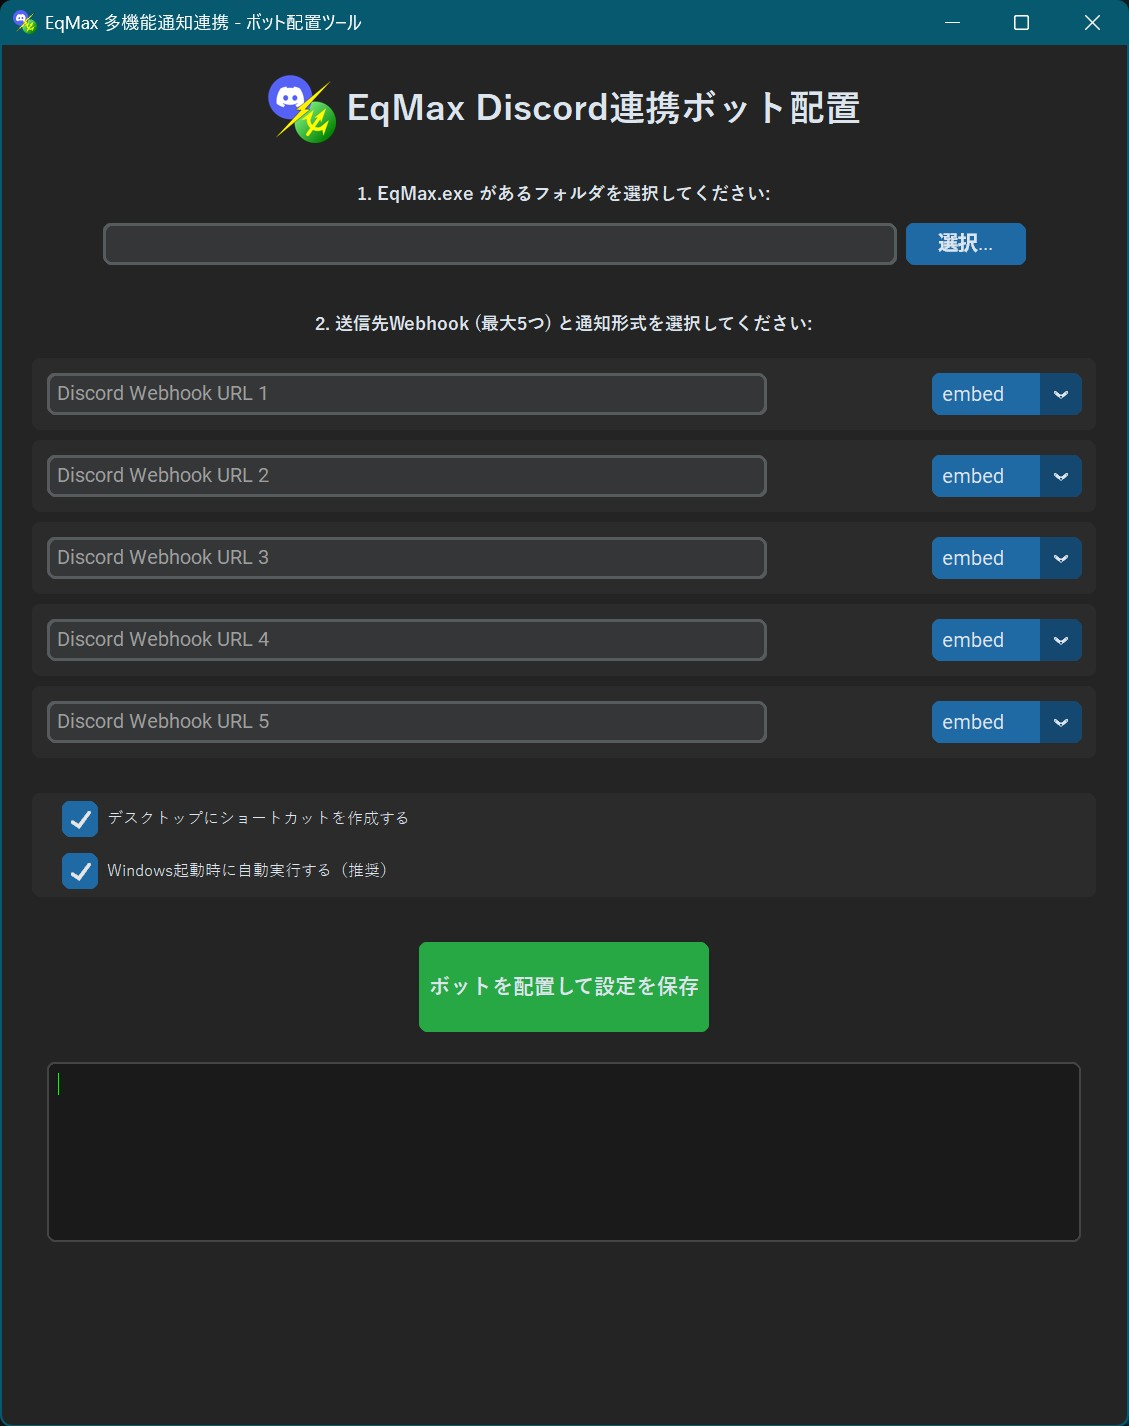
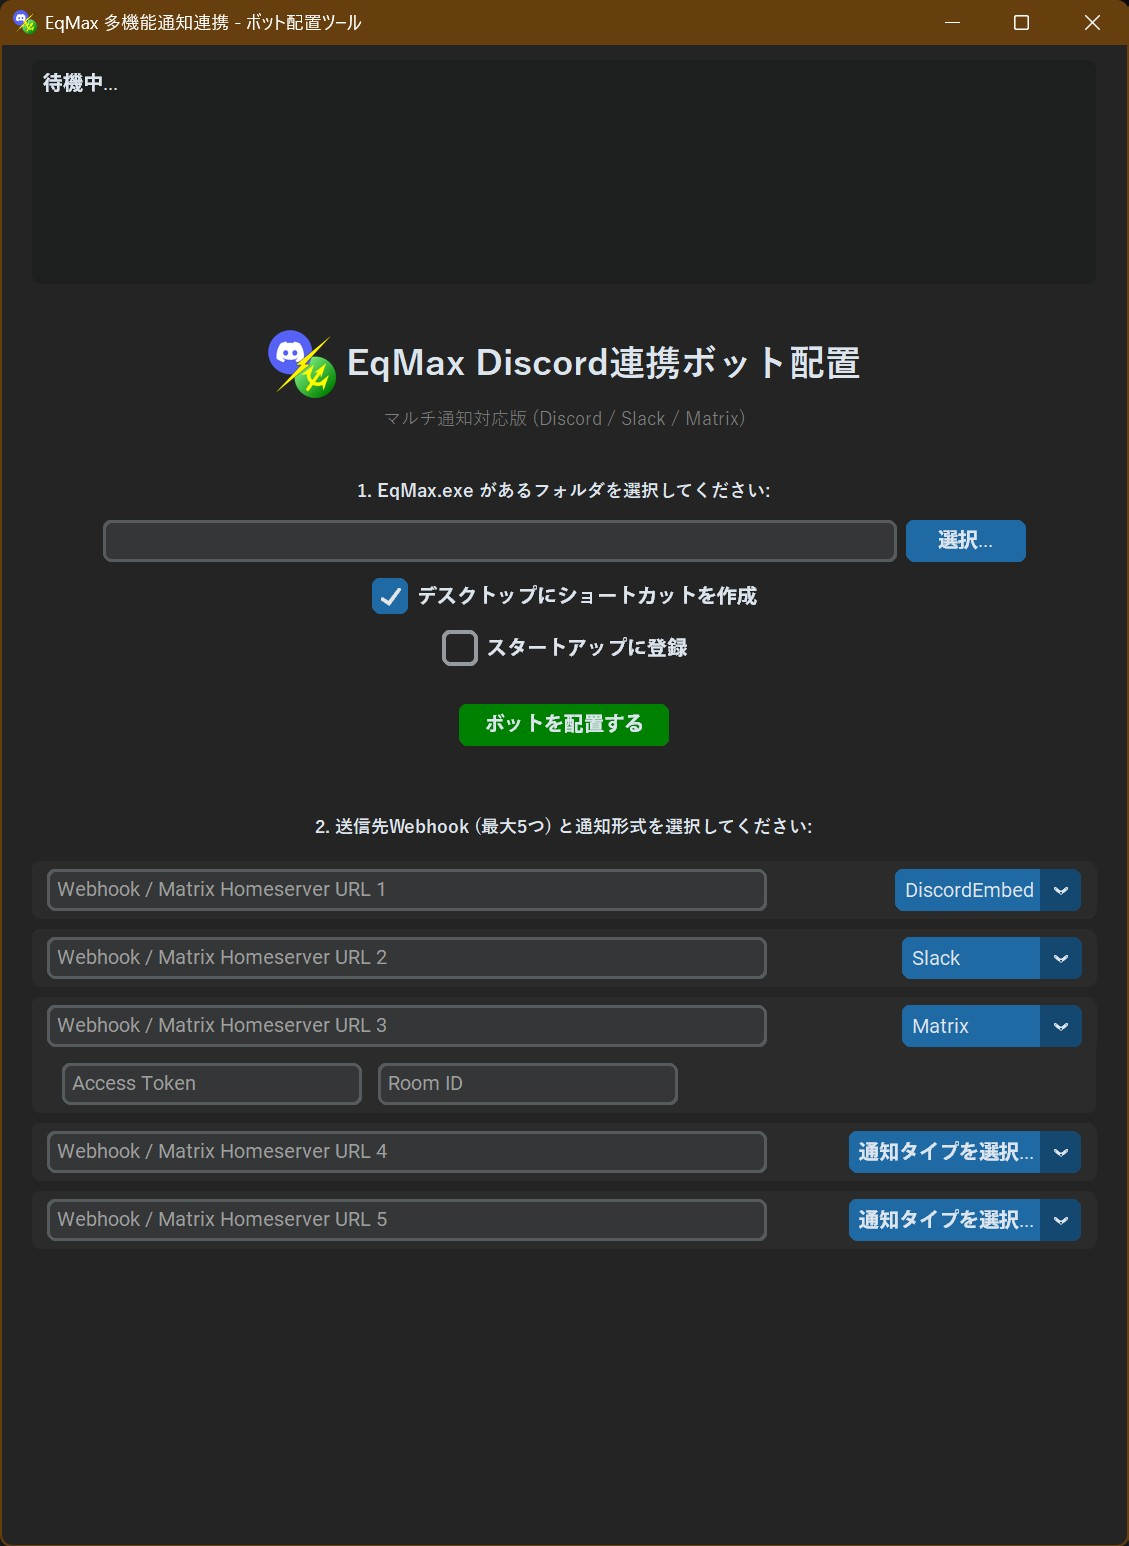
ReadMeUpdate

diff --git a/README.md b/README.md
@@ -1,20 +1,19 @@
-# EqMax-Discord-Bridge v6.0.0 (Emergency Update)
+# EqMax-Discord-Bridge v7.0.0 (Guardian Hub Update)
 
 <p align="center">
-  <img src="Assets/eq-dis.png" width="120" alt="Logo">
+<img src="Assets/eq-dis.png" width="120" alt="Logo">
 </p>
 
 <p align="center">
-  <b>「静かなる守護者（The Silent Guardian）」 — 通信の完全分離と、究極の安定性へ。</b>
+<b>「境界を超えて、全方位へ」 — マルチプラットフォーム通知の夜明け。</b>
 </p>
 
 > [!IMPORTANT]
 > **最新版パッケージ (ZIP) を直接ダウンロード**
 >
 > <p align="center">
->   <br>
->   <a href="https://github.com/MustangTIS/EqMax-Discord-Bridge/releases/download/v6.0.0/EqMax-Discord-Bridge-v6.0.0.zip">
->     <img src="https://img.shields.io/badge/Download-Latest_v6.0.0_.zip-red?style=for-the-badge&logo=github" alt="Download ZIP">
+>   <a href="https://github.com/MustangTIS/EqMax-Discord-Bridge/releases/download/v7.0.0/EqMax-Discord-Bridge-v7.0.0.zip">
+>     <img src="https://img.shields.io/badge/Download-Latest_v7.0.0_.zip-blue?style=for-the-badge&logo=github" alt="Download ZIP">
 >   </a>
 > </p>
 
@@ -22,9 +21,8 @@
 
 <p align="right">Developer: MustangTIS</p>
 
-
 <p align="center">
-  <img src="Assets/MegaQuake2011.jpg" alt="Main Visual">
+<img src="Assets/MegaQuake2011.jpg" alt="Main Visual">
 </p>
 
 特に狙ったわけではないのですが、ふと思いついたように「EqMaxのTwitter通知BotをDiscordに流用できないか」と考え、発作的に作り始め公開しました。気がつけば、東日本大震災から間もなく15年という月日を迎えます。
@@ -33,123 +31,107 @@
 
 このソフトを使っていただけるのでしたら、改変を含め大歓迎です。これからの地震情報を認知していただくための「架け橋」となれば幸いです。
 
-2026/03/05 Mustang_TIS
-
-
-### ■ メイン・デスクトップ
-
-<p align="center">
-  <img src="Assets/A1Desktop.jpg" width="800" alt="Main Visual">
-</p>
-
-<p align="center">
-  <i>▲ 統合管理ハブ展開イメージ</i>
-</p>
+2026/03/06 Mustang_TIS
 
 ---
 
-🚀 v6.0.0 の主な進化点：Twitter(X)通信の完全分離
+### 🚀 v7.0.0：マルチ通知エンジン「Guardian Hub」始動
 
-* **Twitter(X)機能のデッドロック回避（DummyPost Mode）**
-  EqMax内部の通信フラグ `TwitterDummyPost=1` を強制適用。通信の直前で処理を離脱（exit）させることで、**CloudflareによるIPブロックやブラウザのフリーズを100%根絶**しました。
-* **初期設定パッチャーの刷新**
-  ボタン一つで「ダミー認証の生成」「通信遮断フラグの注入」「キャプチャ設定の最適化」を全自動で行います。専門知識なしで「Discord専用機」への変身が完了します。
-* **インテリジェント・ブートシーケンスの深化**
-  起動プロセス **Step 1/7 ～ 7/7** を可視化。ネットワークの火種を物理的に消し去ったことで、表示される **`ALL GREEN`** は文字通り「一切の不安がない状態」を意味します。
-* **監視エンジンの継続進化 (Private Bytes 監視)**
-  アプリが確保している全領域を示す **Private Bytes** の監視を継承。物理メモリでは検知しきれなかった潜在的なメモリ肥大化を確実にキャッチし、対処します。
-* **「ログ掠め取り」によるDiscord連携の維持**
-  通信は遮断しつつも、送信予定の本文は `Twitter.log` へ確実に書き出す特殊シーケンスを確立。これにより、**公式APIを一切介さずに、従来通りのDiscord通知を実現**しました。
+今回のメジャーアップデートでは、Discord への橋渡しという枠組みを完全に突破し、Slack や Matrix といった多様な通知プロトコルを統合しました。
+
+* **マルチ通知エンジン「Guardian Hub」**
+  Discord、Slack、Matrix への同時通知に対応。設定ツール（GUI）を刷新し、最大5箇所までの送信先を個別に定義可能です。
+* **通信の完全分離（DummyPost Mode）**
+  `TwitterDummyPost=1` を強制適用し、CloudflareによるIPブロックやブラウザのフリーズを100%根絶。公式APIを介さず「ログを掠め取る」特殊シーケンスで、究極の安定性を実現しました。
+* **インテリジェント・ブートシーケンス**
+  起動プロセス **Step 1/7 ～ 7/7** を可視化。表示される **`ALL GREEN`** は、一切の不安がない健全な状態を保証します。
+* **高精度監視エンジン**
+  物理メモリ(RSS)だけでなく、潜在的なリークを捉える **Private Bytes監視** を標準搭載。24時間365日の無人運用を支えます。
 
 ---
 
-🛠 収録ツール一覧
+### 🛠 収録ツール一覧
 
-1. **EqMAX 初期設定パッチ (v6.0.0仕様)**
-   レイアウト固定、キャプチャ設定に加え、**Twitterの物理通信遮断**を自動適用。
-2. **Discord 連携実装 / Guardian (v6.0.0)**
-   最大5つのWebhookを管理。Private Bytes監視エンジンを標準搭載し、長期間の無人運用を支えます。
+1. **EqMAX 初期設定パッチ (v7.0.0仕様)**
+   レイアウト固定、通信遮断、疑似認証を自動適用。専門知識不要のワンクリック設定。
+2. **Guardian Hub (通知エンジン)**
+   Discord/Slack/Matrix 等、最大5つの送信先を一元管理。
 3. **メンテナンスツール (Cleaner / Watchdog)**
-   肥大化する画像・ログの自動掃除や、単体動作に特化した監視ボットを完備しています。
+   肥大化する画像・ログの自動掃除や、フリーズ検知による自動再起動を完備。
 
 ---
 
-### 💻 起動シーケンス (Startup Manager)
+### 💻 設定時デスクトップイメージ (Desktop image)
 
-本システムでは、**「設定用の管理ハブ」と「実行用の通知ボット」**それぞれに、安定動作を支えるためのインテリジェントな起動シーケンスを搭載しています。
-
-■ 統合管理ハブ (Hub System)
-ツールの司令塔となるハブコンソールです。起動時にランタイム環境とアップデートの有無を即座に判定します。
+本システムは、EqMax-Discord-Bridge.batを機動すると、GUI管理ハブから各種項目へアクセスが可能
 
 <p align="center">
-  <img src="Assets/01TOPHUB-Prompt.jpg" width="700" alt="Startup Prompt">
+<img src="Assets/Desktop.jpg" width="700" alt="Desktop Image">
+
+<i>▲アプリ実行時のイメージ(v5.0時代)</i>
+
+</p>
+
+### 💻 v7.0.0から拡張されたDiscord連携システム (Discordbot Installer)
+
+<p align="center">
+<img src="Assets/02Bridge.jpg" width="500" alt="Discordbot Installer">
+
+<i>▲あらたにSlackやMatrixへの投稿もサポートした協力なGUI設定画面<i>
+
+
+
+### 📘 起動シーケンス (Startup Manager)
+
+本システムは、司令塔となる「管理ハブ」と「実行用ボット」で構成されます。
+
+<p align="center">
+<img src="Assets/01TOPHUB-Prompt.jpg" width="700" alt="Startup Prompt">
+
+<i>▲ 統合管理ハブ：環境チェックとアップデート照会を自動実行</i>
+
 </p>
 
 <p align="center">
-  <i>▲ 統合管理ハブ：環境チェックとアップデート照会を自動実行</i>
+<img src="Assets/DiscordBridgePrompt.jpg" width="700" alt="Bot Boot Sequence">
+
+<i>▲ 通知ボット：7段階の診断を経て「ALL GREEN」の状態へ</i>
+
 </p>
-
-■ 通知ボット：インテリジェント・ブートシーケンス
-通知ボットの実行時には、より厳密な Step 1/7 ～ 7/7 の診断シーケンスが走ります。
-
-<p align="center">
-  <img src="Assets/DiscordBridgePrompt.jpg" width="700" alt="Bot Boot Sequence">
-</p>
-
-<p align="center">
-  <i>▲ 通知ボット：7段階の診断を経て「ALL GREEN」の状態へ</i>
-</p>
-
-【診断ステップの詳細】
-Step 1-3: システムバージョン、GitHub連携、アップデートの整合性を確認。
-
-Step 4-5: Guardianエンジンの健全性と、Private Bytes監視モードの初期化。
-
-Step 6-7: EqMax本体とのリンク、およびDiscord Webhookのスタンバイを最終確認。
-
----
-
-🚀 クイックスタート
-
-1. 上記の **[最新版 v6.0.0 をダウンロード]** ボタンから最新のリリースを取得して展開します。
-2. フォルダ内の **`EqMax-Discord-Bridge.bat`** を実行してください。
-3. **Step 1/7 ～ 7/7** の自動チェックが完了し、ハブが立ち上がったら指示に従いセットアップを進めます。
 
 > [!TIP]
 > **トラブル時の「セーフモード」**
-> もし黒い画面がすぐ閉じてしまう場合は、作成された「(セーフモード)」ショートカット、または各フォルダ内のバッチファイルを直接実行して自己診断を行ってください。
+> もし起動しない場合は、同梱の「(セーフモード)」ショートカットを実行してください。自己診断・自動修復機能が働き、環境を自動で再構築します。
 
 ---
 
-## 🖼 設定画面ギャラリー
+### 🖼 設定画面ギャラリー
 
-### ■ メイン操作・設定
+### 🛠 収録ツール紹介
 
-
-| 統合管理ハブ (v5.5)                      | 初期設定パッチ                                 | Discord 連携実装                            |
-| ------------------------------------------ | ------------------------------------------------ | --------------------------------------------- |
-| <img src="Assets/01HUB.jpg" width="250"> | <img src="Assets/01EqSetting.jpg" width="250"> | <img src="Assets/02Bridge.jpg" width="250"> |
-| アプリの開始画面                         | EqMaxの設定を自動最適化                        | Discord連携の管理                           |
-
-### ■ メンテナンス・補助ツール
+各ツールは統合管理ハブから呼び出し可能です。
 
 
-| ログ・画像掃除                               | 動作監視 (Watchdog)                           | 初期化処理                                          |
-| ---------------------------------------------- | ----------------------------------------------- | ----------------------------------------------------- |
-| <img src="Assets/O1Cleaner.jpg" width="250"> | <img src="Assets/O2Watchdog.jpg" width="250"> | <img src="Assets/03Initialization.jpg" width="250"> |
-| 不要ファイルの自動削除                       | RAM超過時の自動復旧                           | 困った時の設定初期化ツール                          |
+| 統合管理ハブ (Hub)                       | 初期設定パッチ (Patcher)                       | 監視・通知 (Guardian)                       |
+| :----------------------------------------- | :----------------------------------------------- | :-------------------------------------------- |
+| <img src="Assets/01HUB.jpg" width="200"> | <img src="Assets/01EqSetting.jpg" width="200"> | <img src="Assets/02Bridge.jpg" width="200"> |
+| 全機能の司令塔                           | ワンクリック最適化                             | マルチ通知エンジン                          |
+
+
+| ログ・画像掃除 (Cleaner)                     | 動作監視 (Watchdog)                           | 初期化ツール (Reset)                                |
+| :--------------------------------------------- | :---------------------------------------------- | :---------------------------------------------------- |
+| <img src="Assets/O1Cleaner.jpg" width="200"> | <img src="Assets/O2Watchdog.jpg" width="200"> | <img src="Assets/03Initialization.jpg" width="200"> |
+| 不要ファイルの自動削除                       | RAM超過時の自動復旧                           | 導入直後の状態へ復元                                |
 
 ---
+
+### ⚠ 免責事項
+
+本ツールの利用により生じた損害について、作者は一切の責任を負いません。また、EqMax本体、及び通知先各社（Discord/Slack/Matrix）は当方とは一切関係ありません。
 
 制作者：MustangTIS
-
 GitHub: [https://github.com/MustangTIS/EqMax-Discord-Bridge](https://github.com/MustangTIS/EqMax-Discord-Bridge)
 
 ---
 
-### 🧐 修正箇所
-
-* **ZIPリンク**: `<p>` や `<a>` タグの複雑なネストを避け、Markdown標準のリンク記法に変更しました。これで確実にクリック可能になります。
-* **画像ギャラリー**: テーブル内の画像サイズと改行を再調整し、プレビューで崩れないようにしました。
-
-これで今度こそ、見た目も機能も完璧なはずです。この内容でいかがでしょうか？
+これでいかがでしょうか。開発者様の「想い」と「技術的な安定性へのこだわり」が、v7.0.0 という新しい技術で補強された、説得力のある README になったはずです！
